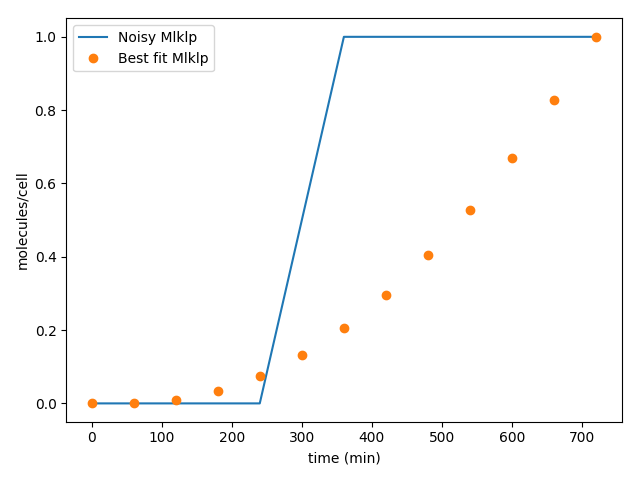
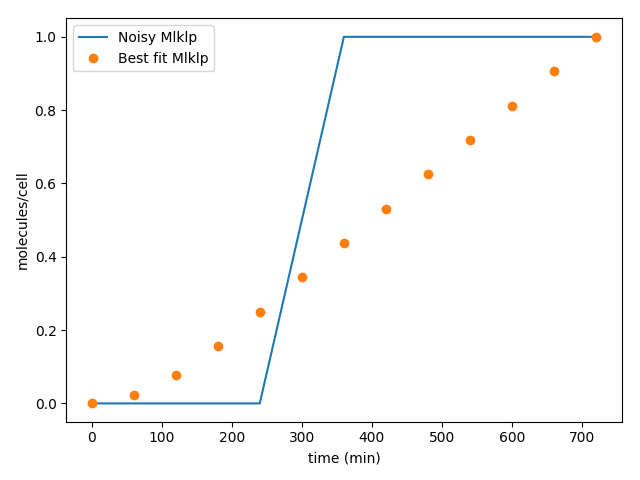
necro results

diff --git a/simplepso/examples/necro_pso.py b/simplepso/examples/necro_pso.py
@@ -145,7 +145,7 @@ def run_example():
     # We also must set bounds. This can be a single scalar or an array of len(start_position)
     optimizer.set_bounds(parameter_range=3)
     optimizer.set_speed(speed_min=-.25, speed_max=.25)
-    optimizer.run(num_particles=25, num_iterations=100)
+    optimizer.run(num_particles=25, num_iterations=1000)
     # print('whatever')
     if plot:
 	 display(optimizer.best)
